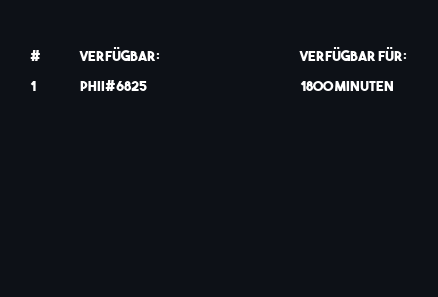
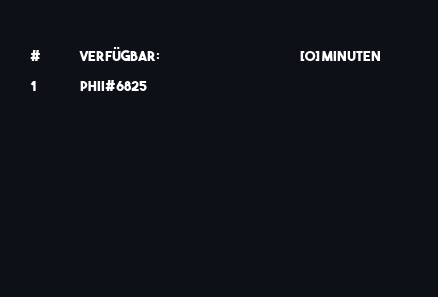
bugfix and update to pycord

Changed region(s): [[0.6826, 0.1515, 0.9201, 0.2121], [0.6826, 0.2727, 0.9201, 0.303]]

diff --git a/commands/LogProfileChanges.py b/commands/LogProfileChanges.py
@@ -26,8 +26,8 @@ class ProfileChanges(Cog):
 				timestamp = datetime.utcnow()
             )
 			embed.set_author(name=f"{after.name}#{after.discriminator}",
-			icon_url=after.avatar_url)
-			embed.set_thumbnail(url=after.avatar_url)
+			icon_url=after.display_avatar)
+			embed.set_thumbnail(url=after.display_avatar)
 			embed.set_footer(text=f"User ID: {after.id}")
 
 			fields = [("Before", before.name, False),("After", after.name, False)]
@@ -46,7 +46,7 @@ class ProfileChanges(Cog):
 				timestamp = datetime.utcnow()
             )
 			embed.set_author(name=f"{after.name}#{after.discriminator}",
-			icon_url=after.avatar_url)
+			icon_url=after.display_avatar)
 			embed.set_footer(text=f"User ID: {after.id}")
 
 			fields = [("Before", before.discriminator, False),("After", after.discriminator, False)]
@@ -67,8 +67,8 @@ class ProfileChanges(Cog):
 			icon_url=after.avatar_url)
 			embed.set_footer(text=f"User ID: {after.id}")
 
-			embed.set_thumbnail(url=after.avatar_url)
-			embed.add_field(name='Avatar', value=f"[Before:]({before.avatar_url}) -> [After]({after.avatar_url})", inline=False)
+			embed.set_thumbnail(url=after.display_avatar)
+			embed.add_field(name='Avatar', value=f"[Before:]({before.display_avatar}) -> [After]({after.display_avatar})", inline=False)
 
 			await self.log_channel.send(embed=embed)
 

diff --git a/commands/LogMessages.py b/commands/LogMessages.py
@@ -3,6 +3,7 @@ from datetime import datetime
 from discord import Embed
 from discord.ext.commands import Cog
 from discord.ext.commands import command
+from discord.message import Attachment
 
 
 class Log(Cog):
@@ -44,12 +45,21 @@ class Log(Cog):
                 title="Message deleted",
 				description=f"A message from {message.author.mention} in {message.channel.mention} was deleted",
 				colour = discord.Colour.red(),
-				icon_url=message.author.avatar_url,
+				#url=message.author.display_avatar,
 				timestamp=datetime.utcnow()
             )
 			embed.set_author(name=message.author,
-			icon_url=message.author.avatar_url)
+			icon_url=message.author.display_avatar)
 			embed.set_footer(text=f"User ID: {message.author.id} " + "\n" f"Message ID: {message.id}")
+			# checks if the message has attachments and return if so
+			if message.attachments:
+				await self.log_channel.send(message.attachments[0].url)
+				# check if the message only has attachments
+				if message.content == "":
+					# define the message.content as the attachment name and hyperlink the attachment url
+					message.content = f"[{message.attachments[0].filename}]({message.attachments[0].url})"
+
+
 			fields = [("Content:", message.content, False)]
 
 			for name, value, inline in fields:

diff --git a/commands/LogServerJoinsLeaves.py b/commands/LogServerJoinsLeaves.py
@@ -23,8 +23,8 @@ class ServerJoinsLeaves(Cog):
 			timestamp = datetime.utcnow()
         )
 		embed.set_author(name=f"{member.name}#{member.discriminator}",
-		icon_url=member.avatar_url)
-		embed.set_thumbnail(url=member.avatar_url)
+		icon_url=member.display_avatar)
+		embed.set_thumbnail(url=member.display_avatar)
 		#embed.add_field(f"{member.mention} hat den Server verlassen")
 		embed.set_footer(text=f"User ID: {member.id}")
 
@@ -38,8 +38,8 @@ class ServerJoinsLeaves(Cog):
 			timestamp = datetime.utcnow()
         )
 		embed.set_author(name=f"{member.name}#{member.discriminator}",
-		icon_url=member.avatar_url)
-		embed.set_thumbnail(url=member.avatar_url)
+		icon_url=member.display_avatar)
+		embed.set_thumbnail(url=member.display_avatar)
 		embed.add_field(name='Accounterstellung', value=member.created_at.strftime("%d.%m.%Y"), inline=False)
 		embed.set_footer(text=f"User ID: {member.id}")
 

diff --git a/commands/temproles.py b/commands/temproles.py
@@ -70,6 +70,10 @@ class TempRoles(commands.Cog):
             else:
                 await ctx.send("Du hast noch keine Zeit verfügbar.")
 
+    @bot.slash_command(name="add", description = "adds a specific amount of time to the database", guild_ids = [869166822245670912])
+    async def test(ctx):
+        await ctx.respond("test")
+
 
     @commands.command(pass_context=True)
     async def rem(self, ctx, minutes: int):
@@ -180,7 +184,7 @@ class TempRoles(commands.Cog):
 
 
 
-            draw_on_image.text(time_count_text_position, (f'{user_time_count / 60} Minuten'), 'white', font=font)
+            draw_on_image.text(time_count_text_position, (f'{user_time_count} Minuten'), 'white', font=font)
 
             # Save the image
             image_template.convert('RGB').save('time.png', 'PNG')

diff --git a/commands/LogServerProfileChanges.py b/commands/LogServerProfileChanges.py
@@ -24,8 +24,8 @@ class ServerProfileChanges(Cog):
 				timestamp = datetime.utcnow()
             )
 			embed.set_author(name=f"{after.nick}#{after.discriminator}",
-			icon_url=after.avatar_url)
-			embed.set_thumbnail(url=after.avatar_url)
+			icon_url=after.display_avatar) #display avatar and guild avatar
+			embed.set_thumbnail(url=after.display_avatar)
 			embed.set_footer(text=f"User ID: {after.id}")
 
 			fields = [("Before", before.display_name, False),
@@ -94,6 +94,8 @@ class ServerProfileChanges(Cog):
 			embed.set_footer(text=f"User ID: {after.id}"),
 
 			await self.log_channel.send(embed=embed)
+		
+		#elif before.guild_avatar != after.guild_avatar:
 
 def setup(bot):
 	bot.add_cog(ServerProfileChanges(bot))

diff --git a/slash_test.py b/slash_test.py
@@ -41,11 +41,11 @@ async def test(ctx):
     await ctx.send("Button", view=view)
 
 
-@bot.slash_command(name="test", description = "Test command", guild_ids = [822227357644357633])
+@bot.slash_command(name="test", description = "Test command", guild_ids = [869166822245670912])
 async def test(ctx):
     await ctx.respond("passed")
 
 
 
 
-bot.run("ODIzNjkyMzA4ODI2MjkyMjQ0.YFkhPQ.3BOX2Eho3lmWCuvPAYtIZRGrNeA")
+bot.run()
